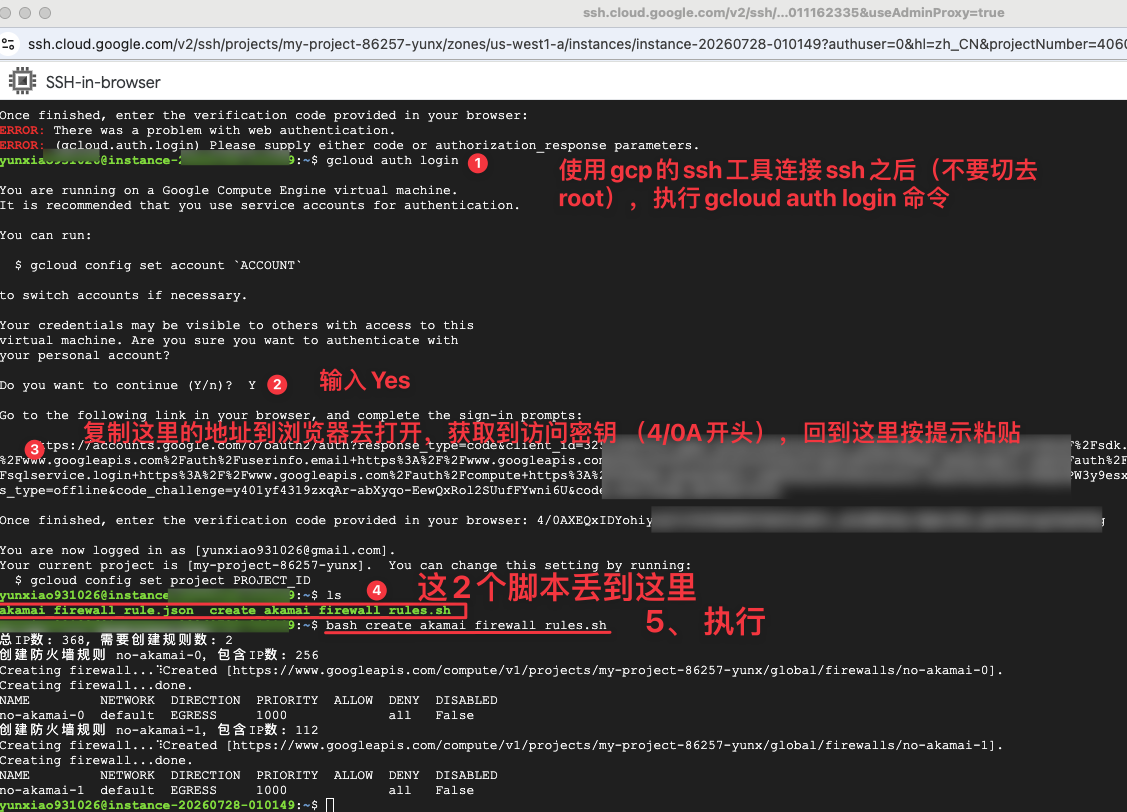
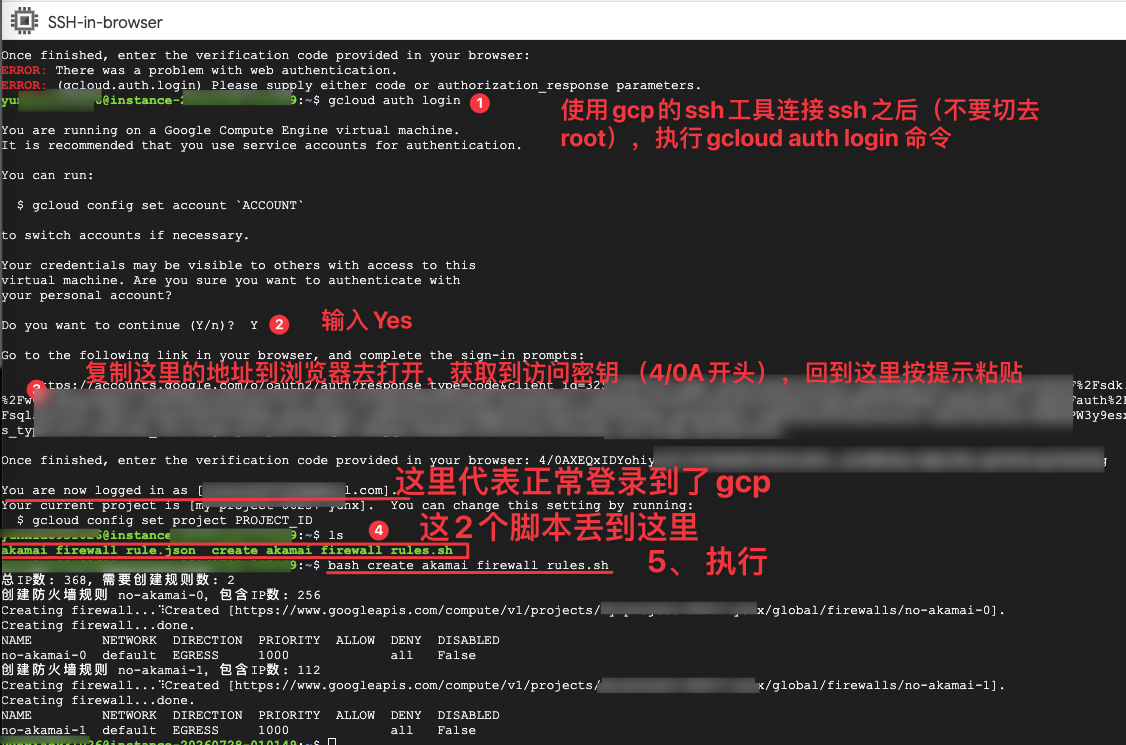
1
1

diff --git a/README.md b/README.md
@@ -1,8 +1,192 @@
-# gcp_no_cdn
+# GCP 防火墙屏蔽 CDN IP 避免产生流量扣费
 
-### 参考来源
-https://www.nodeseek.com/post-393299-1
+通过配置 GCP 防火墙规则，阻止出站流量访问 CDN 服务商的 IP 地址，避免产生不必要的流量费用。
+
+## 🎯 目标
+
+防火墙禁用流量出站到以下三家 CDN 服务商：
+- **Cloudflare**
+- **Fastly**
+- **Akamai**
+
+---
+
+## ⚙ 防火墙规则设置
+
+```
+方向：出站
+动作：拒绝
+目标：网络中所有实例（或带标签的实例）
+范围：CDN IP 段
+协议：全部协议和端口
+动作：全部拒绝
+```
+
+---
+
+## 📊 CDN 地址来源
+
+| CDN 厂商 | 地址来源 |
+|---------|---------|
+| Cloudflare | [查看 CF 地址来源](https://www.cloudflare.com/zh-cn/ips/) |
+| Fastly | [查看 Fastly 地址来源](https://api.fastly.com/public-ip-list) |
+| Akamai | [查看 Akamai 地址来源](https://github.com/SecOps-Institute/Akamai-ASN-and-IPs-List/blob/master/akamai_ip_list.lst) |
+
+> **说明：** CF 和 Fastly 的 IP 数量较少，可手动添加到防火墙规则。Akamai IP 段较多，建议使用脚本批量导入(参见下面教程)。
 
 
+<p align="center">
+  <img src="images/cfcdn.png" alt="Cloudflare IP 来源" width="500">
+</p>
 
-https://raw.githubusercontent.com/jyucoeng/gcp_no_cdn/refs/heads/main/create_akamai_firewall_rules.sh
+<p align="center">
+  <img src="images/fastly.png" alt="fastly IP 来源" width="500">
+</p>
+
+---
+
+## 📁 IP 列表文件
+
+| 文件 | 说明 |
+|-----|------|
+| `1-cfcdn-ip.txt` | Cloudflare IP 列表 |
+| `2-fastly-ip.txt` | Fastly IP 列表 |
+
+请分别将上述 txt 文件中的 IP 导入到防火墙规则中。
+
+---
+
+## 🚀 GCP Cloud Shell 导入拦截 IP 规则（主要是导入Akamai的ip）
+
+### 脚本功能
+
+- 从 `akamai_firewall_rule.json` 读取 IP 列表
+- 分批（每批最多 256 个 IP）批量创建 GCP 出站防火墙规则
+
+### 第一步：查看 GCP VM 实例
+
+```bash
+gcloud compute instances list
+```
+
+### 第二步：运行脚本
+
+脚本文件：[create_akamai_firewall_rules.sh](create_akamai_firewall_rules.sh)
+
+```bash
+#!/bin/bash
+
+# 【需改1】：IP 文件路径（你的google账号名,这个文件夹自己本来就有）
+IP_FILE="/home/你的google账号名/iplist.txt"
+
+# 【可改2】：规则名称前缀
+RULE_PREFIX="no-akamai"
+
+# 【一般不改】：网络名称（GCP 默认是 default）
+NETWORK="default"
+
+# 【一般不改】：出站规则
+DIRECTION="EGRESS"
+
+# 【可改3】：优先级（0～65535，数字越小优先级越高）
+PRIORITY=1000
+
+# 【需改4】：目标实例标签
+TARGET_TAGS="no-akamai-acc"
+
+# 【一般不改】：动作设为 deny 表示阻止流量
+ACTION="deny"
+
+# 【可改5】：协议类型，"all" 表示所有协议
+PROTOCOL="all"
+
+# 读取 IP 列表到数组
+mapfile -t IPS < "$IP_FILE"
+
+# 每条防火墙规则最多允许 256 个 IP
+MAX_IP=256
+TOTAL_IP=${#IPS[@]}
+NUM_RULES=$(( (TOTAL_IP + MAX_IP - 1) / MAX_IP ))
+
+echo "总IP数: $TOTAL_IP, 需要创建规则数: $NUM_RULES"
+
+# 分批创建防火墙规则
+for ((i=0; i<NUM_RULES; i++)); do
+    start=$((i * MAX_IP))
+    end=$((start + MAX_IP))
+    if [ $end -gt $TOTAL_IP ]; then
+        end=$TOTAL_IP
+    fi
+
+    IP_SUBLIST=$(printf ",%s" "${IPS[@]:$start:$((end - start))}")
+    IP_SUBLIST=${IP_SUBLIST:1}
+
+    RULE_NAME="${RULE_PREFIX}-${i}"
+
+    echo "创建防火墙规则 $RULE_NAME，包含IP数: $((end - start))"
+
+    gcloud compute firewall-rules create "$RULE_NAME" \
+      --network "$NETWORK" \
+      --direction "$DIRECTION" \
+      --priority "$PRIORITY" \
+      --target-tags "$TARGET_TAGS" \
+      --action "$ACTION" \
+      --rules "$PROTOCOL" \
+      --destination-ranges "$IP_SUBLIST"
+done
+```
+
+
+<p align="center">
+  <img src="images/sh执行流程.png" alt="脚本执行流程" width="800">
+</p>
+
+<p align="center">
+  <img src="images/sh执行结果验证.png" alt="执行结果验证" width="700">
+</p>
+
+<p align="center">
+  <img src="images/sh执行结果验证1.png" alt="执行结果验证1" width="700">
+</p>
+---
+
+## 🏷 给 VM 实例添加标签
+
+如果在创建 VM 实例时忘记添加标签，可运行：
+
+```bash
+gcloud compute instances add-tags INSTANCE_NAME \
+    --tags=no-cdn \
+    --zone=ZONE_NAME \
+    --project=PROJECT_ID
+```
+
+**替换说明：**
+- `INSTANCE_NAME`：实例名称（如 `GCP`）
+- `ZONE_NAME`：区域（如 `us-west1-c`）
+- `PROJECT_ID`：项目 ID
+
+---
+
+## 🔍 查看现有标签
+
+```bash
+gcloud compute instances describe 实例名 --zone=区域 --project=项目ID --format="get(tags.items)"
+```
+
+输出为 `[]` 表示尚未添加标签。
+
+---
+
+## ✅ 验证规则是否生效
+
+完成配置后，尝试访问使用这三家 CDN 的网站，如果无法正常访问则表示屏蔽成功。 比如akamai可以直接访问下面的地址来确认屏蔽成功(它用了akamai的cdn)，没屏蔽ip的话，这个地址正常应该是可以打开的，
+- https://a.markwu.eu.org/谷歌云gcp免费vps抢机amd测评教程/
+
+---
+
+## 📖 参考来源
+
+- https://www.nodeseek.com/post-393299-1
+- https://a.markwu.eu.org/谷歌云gcp免费vps抢机amd测评教程/
+
